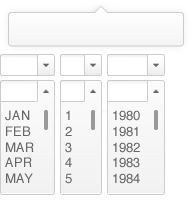
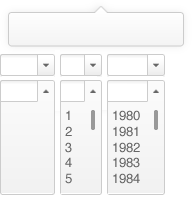
Added scroll

diff --git a/content/js/popovers.js b/content/js/popovers.js
@@ -40,6 +40,7 @@ var datePopover = (function() {
       $(this).toggleClass("selected");
       $day.removeClass("selected");
       $month.removeClass("selected");
+      $(this).find('.inner').jScrollPane({ verticalDragMinHeight: 20});
     });
 
     $month.click(function(event) {
@@ -47,6 +48,7 @@ var datePopover = (function() {
       $(this).toggleClass("selected");
       $year.removeClass("selected");
       $day.removeClass("selected");
+      $(this).find('.inner').jScrollPane({ verticalDragMinHeight: 20});
     });
 
     $day.click(function(event) {
@@ -54,6 +56,7 @@ var datePopover = (function() {
       $(this).toggleClass("selected");
       $year.removeClass("selected");
       $month.removeClass("selected");
+      $(this).find('.inner').jScrollPane({ verticalDragMinHeight: 20});
     });
 
     // … but clicking anywhere else closes the popover
@@ -64,6 +67,7 @@ var datePopover = (function() {
 
   function hide() {
     if (displayed) {
+      $(".day, .month, .year").removeClass("selected");
       $('html').unbind("click");
       $popover.animate({top:$popover.position().top - 20, opacity:0}, transitionSpeed, function() { $popover.remove(); displayed = false; });
     }
@@ -82,9 +86,6 @@ var datePopover = (function() {
   }
 
   function captureDate() {
-   // day = el.find("span.day").html();
-   // month = el.find("span.month").html();
-   // year = el.find("span.year").html();
     var date = new Date(el.attr("datetime"));
     day = date.getDate();
     month = date.getMonth();
@@ -99,6 +100,12 @@ var datePopover = (function() {
     $month.html(months[month]);
     $day.html(day);
     $year.html(year);
+
+    $month.append('<div class="listing"><div class="inner"><ul></ul></div></div>');
+    _.each(months, function(m) {
+      $month.find(".listing ul").append("<li>"+m+"</li>");
+    });
+
 
     var x = el.offset().left;
     var y = el.offset().top ;

diff --git a/content/css/_form.scss b/content/css/_form.scss
@@ -668,22 +668,36 @@
   line-height: 23px;
   -webkit-user-select: none; -khtml-user-select: none; -moz-user-select: none; -o-user-select: none; user-select: none;
 
-  div.month, div.day, div.year { position:relative; float:left; height:23px; top:18px; padding-left: 5px; background:url('/img/date_bkg.png') no-repeat; }
+  div.month, div.day, div.year { position:relative; float:left; height:23px; top:18px; padding-left: 5px; background:url('/img/date_bkg.png') no-repeat; cursor:pointer; }
 
   div.month { width:55px - 5px; background-position: -0px -54px;   left:14px; }
   div.day   { width:42px - 5px; background-position: -60px -54px;  left:19px; }
   div.year  { width:58px - 5px; background-position: -107px -54px; left:24px; }
 
-  div.month.selected {
-    height:115px;
-    background-position: -0px -80px;
-  }
-  div.day.selected {
-    height:115px;
-    background-position: -60px -80px;
-  }
-  div.year.selected {
-    height:115px;
-    background-position: -107px -80px;
+  div.month.selected { height:115px; background-position: -0px -80px; }
+  div.day.selected   { height:115px; background-position: -60px -80px; }
+  div.year.selected  { height:115px; background-position: -107px -80px; }
+
+  div.month.selected .listing { display:block; }
+  div.month .listing {
+    height: 80px;
+    margin-top:5px;
+    overflow:hidden;
+    display:none;
+    width:60px;
+
+    div.inner {
+      height: 80px;
+      ul {
+        margin:0;
+        padding:0;
+
+        li {
+          margin:0;
+          padding:0;
+          line-height:16px;
+        }
+      }
+    }
   }
 }

diff --git a/content/reference.html b/content/reference.html
@@ -115,7 +115,7 @@
 
     <div class="example">
       <!--<span class="date"><span class="month">Oct</span> <span class="day">22nd</span>, <span class="year">2012</span></span>-->
-      <time class="selectable" datetime="2010-11-22">Oct 22nd, 2012</time>
+      <time class="selectable" datetime="2012-10-22">Oct 22nd, 2012</time>
     </div>
 
     <div class="example">
